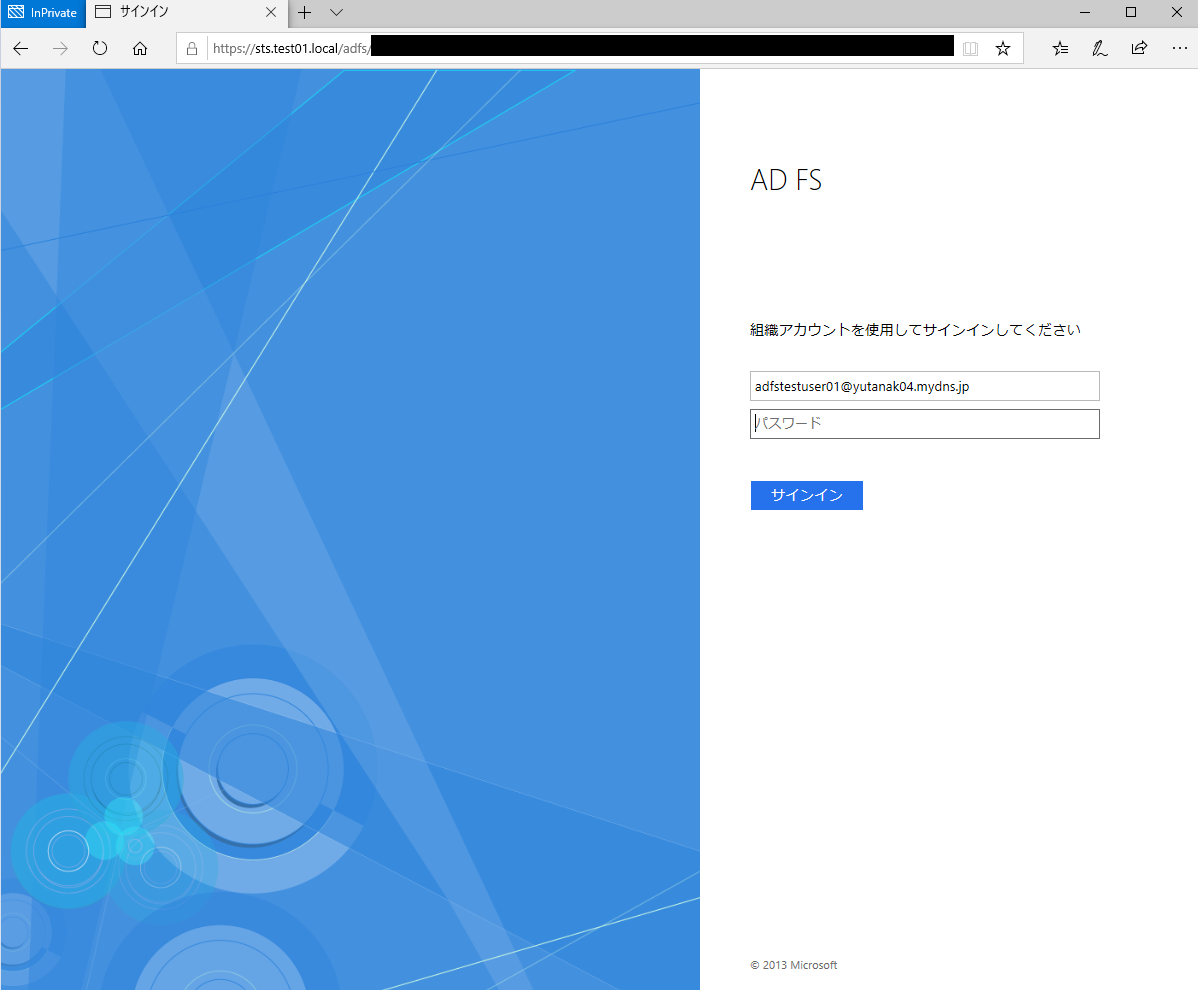
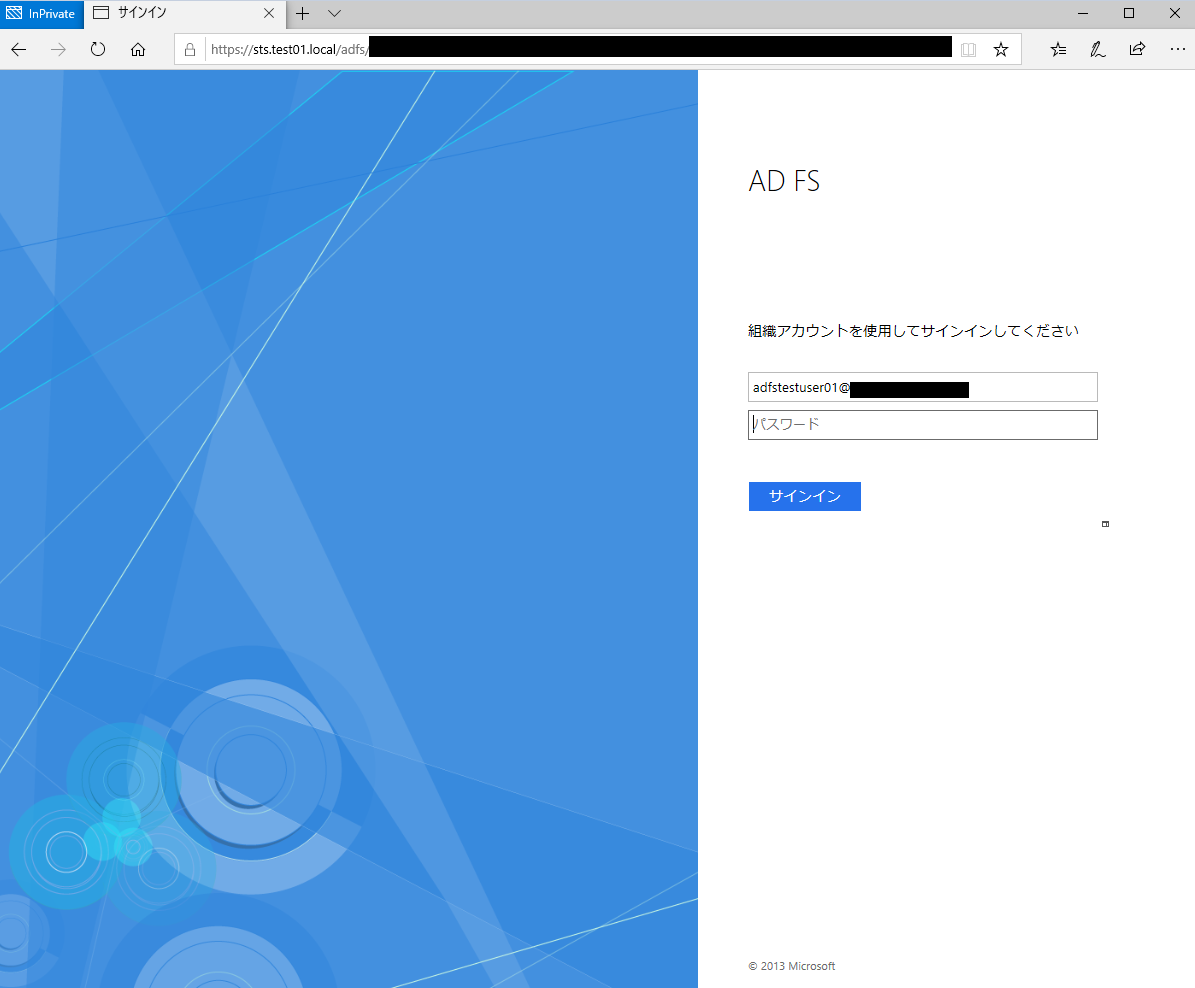
go to review

diff --git a/articles/azure-active-directory/about-staged-rollout.md b/articles/azure-active-directory/about-staged-rollout.md
@@ -1,6 +1,6 @@
 ---
 title: Staged Rollout について
-date: 2020-05-07
+date: 2020-05-08
 tags:
   - Azure AD
   - Staged Rollout
@@ -18,10 +18,10 @@ tags:
 例えば、以下のようなシナリオが挙げられます。
 
 - シナリオ
-ユーザー A および ユーザー B は、共に同じ `yutanak04.mydns.jp` というフェデレーション ドメインを持つユーザーである。
+ユーザー A および ユーザー B は、共に同じ `contoso.com` というフェデレーション ドメインを持つユーザーである。
 
-ユーザー A の UPN : `test.user0001@yutanak04.mydns.jp`  
-ユーザー B の UPN : `adfstestuser01@yutanak04.mydns.jp`
+ユーザー A の UPN : `test.user0001@contoso.com`  
+ユーザー B の UPN : `adfstestuser01@contoso.com`
 
 Staged Rollout 機能が割り当てられているユーザー A : マネージド認証 (パスワード ハッシュ同期 / パススルー認証)  
 Staged Rollout 機能が割り当てられていないユーザー B : フェデレーションによる認証
@@ -38,32 +38,32 @@ URL : <https://docs.microsoft.com/ja-jp/azure/active-directory/hybrid/how-to-con
 以下では、上述のシナリオに基づいて、実際の構成手順を一部抜粋して、ご案内します。
 
 \[ドメイン状態\]
-- `yutanak04.mydns.jp` : Federated
+- `contoso.com` : Federated
 
 \[グループおよびグループに含まれるユーザーの構成情報\]
 
 |                                              | グループ名<br>TESTPHS01 |
 |----------------------------------------------|----------------------|
-| ユーザー A <br>`test.user0001@yutanak04.mydns.jp`  | <font color="Red">〇</font> (含まれる)|
-| ユーザー B <br>`adfstestuser01@yutanak04.mydns.jp` | x  (含まれていない)   |
+| ユーザー A <br>`test.user0001@contoso.com`  | <font color="Red">〇</font> (含まれる)|
+| ユーザー B <br>`adfstestuser01@contoso.com` | x  (含まれていない)   |
 
 TESTPHS01 のグループに対して、以下のように、Staged Rollout 機能におけるパスワード ハッシュ同期を割り当てます。
 
 ![](./about-staged-rollout/apply-phs.png)
 
 \[認証方式\]
-- `test.user0001@yutanak04.mydns.jp` のユーザーで認証を試みます。(グループに含まれるユーザー)  
+- `test.user0001@contoso.com` のユーザーで認証を試みます。(グループに含まれるユーザー)  
 ⇒ フェデレーション認証の場合だとリダイレクトされますが、リダイレクトされておらず、パスワード ハッシュ同期による認証方式が適用されていることが、以下の画面キャプチャからもご確認いただけます。  
 ※なお、[グループおよびグループに含まれるユーザーの構成情報] において、Staged Rollout 機能におけるパススルー認証を割り当てても、以下の画面キャプチャと同様のサインイン画面が表示されます。
 
 ![](./about-staged-rollout/input-password.png)
 
-- `adfstestuser01@yutanak04.mydns.jp` のユーザーで認証を試みます。 (グループに含まれていないユーザー)  
+- `adfstestuser01@contoso.com` のユーザーで認証を試みます。 (グループに含まれていないユーザー)  
 ⇒ AD FS による認証方式が適用されていることが、以下の画面キャプチャからもご確認いただけます。
 
 ![](./about-staged-rollout/adfs-signinpage.png)
 
-このように、上記の 2 ユーザー共に、同じフェデレーション ドメイン (例 : `yutanak04.mydns.jp`) を使用しているにも関わらず、Staged Rollout 機能を割り当てたグループに含まれるユーザーは、マネージド 認証が適用されます。
+このように、上記の 2 ユーザー共に、同じフェデレーション ドメイン (例 : `contoso.com`) を使用しているにも関わらず、Staged Rollout 機能を割り当てたグループに含まれるユーザーは、マネージド 認証が適用されます。
 
 # Staged Rollout に関してよくある Q&A 集
 **Q. 認証方式の切替を行う際、ユーザー単位での認証方式の変更は必要なく (全ユーザーに対する認証方式を行う想定)、認証方式の変更に要する時間として、ドメイン単位でフェデレーション解除するよりも Staged Rollout 機能を用いた方が、反映時間は短く済むのでしょうか？**
